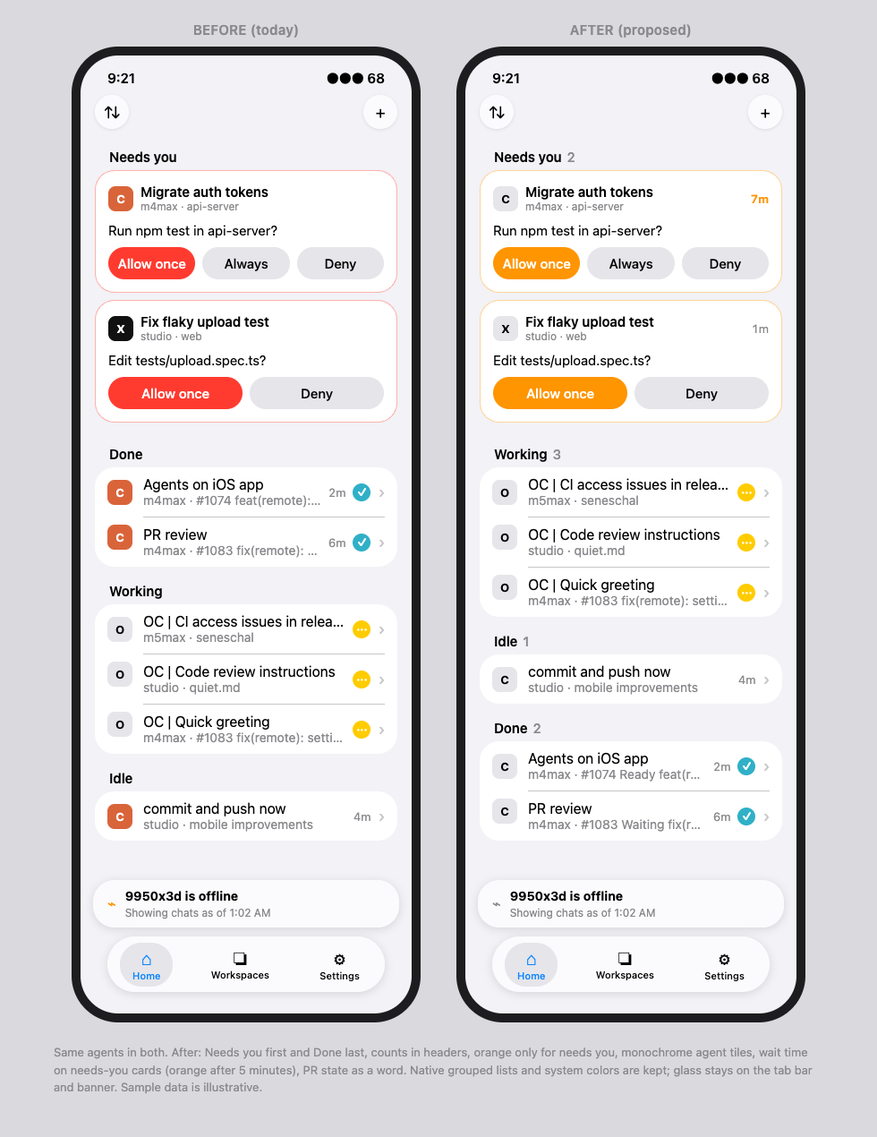
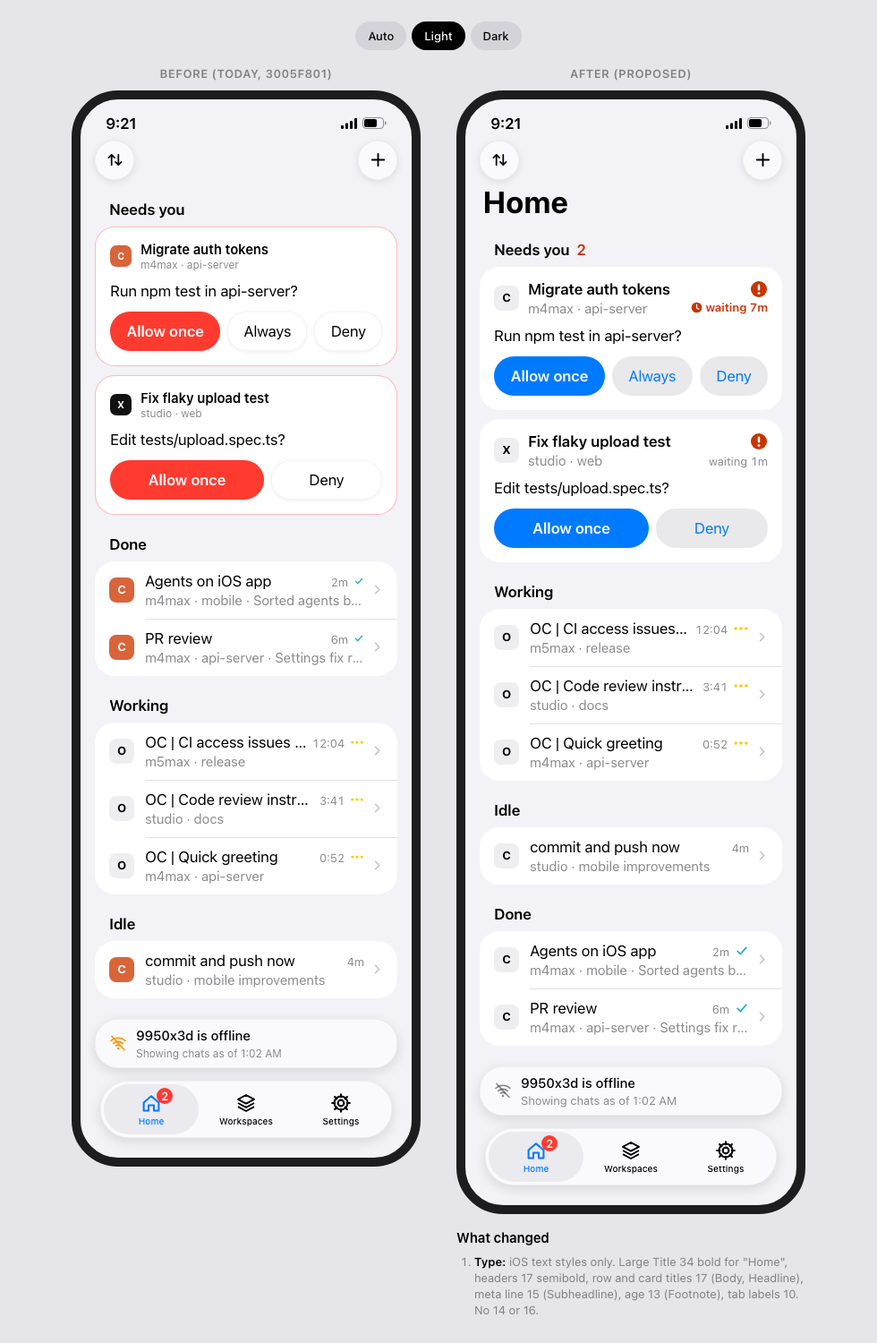
docs: align the ios home mock with the apple guidelines

Changed region(s): [[0.0612, 0.0, 0.9184, 0.9827], [0.1224, 0.6756, 0.3673, 0.737]]

diff --git a/design-proposal/ios-native-mock.html b/design-proposal/ios-native-mock.html
@@ -2,86 +2,239 @@
 <html lang="en"><head><meta charset="utf-8"><meta name="viewport" content="width=device-width,initial-scale=1">
 <title>iPhone Home mock</title>
 <style>
-:root{--bg:#f2f2f7;--card:#fff;--text:#000;--sec:#8a8a8e;--sep:#c6c6c8;--fill:#e5e5ea;--red:#ff3b30;--orange:#ff9500;--yellow:#ffcc00;--teal:#30b0c7;--glass:rgba(255,255,255,.72);--page:#d9d9de}
-@media (prefers-color-scheme:dark){:root{--bg:#000;--card:#1c1c1e;--text:#fff;--sec:#8d8d93;--sep:#38383a;--fill:#2c2c2e;--red:#ff453a;--orange:#ff9f0a;--yellow:#ffd60a;--teal:#40c8e0;--glass:rgba(40,40,42,.72);--page:#111}}
-*{box-sizing:border-box;margin:0}
-body{background:var(--page);font-family:-apple-system,BlinkMacSystemFont,"SF Pro Text","Helvetica Neue",Arial,sans-serif;color:var(--text);padding:24px 16px}
-.wrap{display:flex;gap:40px;justify-content:center;flex-wrap:wrap}
-h1{font-size:15px;font-weight:600;text-align:center;margin-bottom:10px;color:var(--sec);letter-spacing:.02em}
-.phone{width:390px;height:1090px;border-radius:52px;background:var(--bg);border:10px solid #1d1d1f;overflow:hidden;position:relative}
-.status{display:flex;justify-content:space-between;padding:16px 30px 0;font-size:15px;font-weight:600}
-.bar{display:flex;justify-content:space-between;padding:10px 16px 4px}
-.btn{width:38px;height:38px;border-radius:50%;background:var(--glass);backdrop-filter:blur(12px);display:grid;place-items:center;font-size:18px;box-shadow:0 1px 4px rgba(0,0,0,.12)}
-.list{padding:0 16px 200px}
-.hdr{font-size:15px;font-weight:600;padding:18px 16px 6px;display:flex;gap:6px}
-.hdr .n{color:var(--sec);font-weight:500}
-.group{background:var(--card);border-radius:22px;overflow:hidden}
-.row{display:flex;align-items:center;gap:12px;padding:10px 14px}
-.row+.row .body{border-top:.5px solid var(--sep)}
-.row+.row{padding-top:0}.row+.row .body{padding-top:10px}
-.tile{width:28px;height:28px;border-radius:8px;display:grid;place-items:center;font-size:13px;font-weight:700;flex:none}
-.body{flex:1;min-width:0;display:flex;align-items:center;gap:8px}
+/* System colors as iOS defines them. "--attn" is the proposed Attention Color Set:
+   systemOrange's increased-contrast value in light, systemOrange in dark. */
+:root{
+ --page:#e5e5ea;--grouped:#f2f2f7;--row:#fff;
+ --label:#000;--label2:rgba(60,60,67,.6);--label3:rgba(60,60,67,.3);--sep:rgba(60,60,67,.29);
+ --fill2:rgba(120,120,128,.16);--fill3:rgba(118,118,128,.12);
+ --blue:#007aff;--red:#ff3b30;--orange:#ff9500;--yellow:#ffcc00;--teal:#30b0c7;--attn:#c93400;
+ --glass:rgba(255,255,255,.62);--glass-edge:rgba(0,0,0,.08);--bezel:#1d1d1f;
+ --font:-apple-system,BlinkMacSystemFont,"SF Pro Text","SF Pro",system-ui,"Helvetica Neue",Arial,sans-serif;
+ color-scheme:light;
+}
+@media (prefers-color-scheme:dark){:root:not([data-theme="light"]){
+ --page:#111113;--grouped:#000;--row:#1c1c1e;
+ --label:#fff;--label2:rgba(235,235,245,.6);--label3:rgba(235,235,245,.3);--sep:rgba(84,84,88,.6);
+ --fill2:rgba(120,120,128,.32);--fill3:rgba(118,118,128,.24);
+ --blue:#0a84ff;--red:#ff453a;--orange:#ff9f0a;--yellow:#ffd60a;--teal:#40c8e0;--attn:#ff9f0a;
+ --glass:rgba(40,40,42,.62);--glass-edge:rgba(255,255,255,.1);--bezel:#3a3a3c;color-scheme:dark}}
+:root[data-theme="dark"]{
+ --page:#111113;--grouped:#000;--row:#1c1c1e;
+ --label:#fff;--label2:rgba(235,235,245,.6);--label3:rgba(235,235,245,.3);--sep:rgba(84,84,88,.6);
+ --fill2:rgba(120,120,128,.32);--fill3:rgba(118,118,128,.24);
+ --blue:#0a84ff;--red:#ff453a;--orange:#ff9f0a;--yellow:#ffd60a;--teal:#40c8e0;--attn:#ff9f0a;
+ --glass:rgba(40,40,42,.62);--glass-edge:rgba(255,255,255,.1);--bezel:#3a3a3c;color-scheme:dark}
+/* Increase Contrast: the system's high-contrast label and accent values. */
+@media (prefers-contrast:more){
+ :root{--label2:rgba(60,60,67,.76);--label3:rgba(60,60,67,.5);--sep:rgba(60,60,67,.45);--blue:#0040dd;--attn:#c93400;--glass-edge:rgba(0,0,0,.3)}
+ @media (prefers-color-scheme:dark){:root:not([data-theme="light"]){--label2:rgba(235,235,245,.76);--label3:rgba(235,235,245,.5);--sep:rgba(84,84,88,.9);--blue:#409cff;--attn:#ffb340;--glass-edge:rgba(255,255,255,.3)}}
+ :root[data-theme="dark"]{--label2:rgba(235,235,245,.76);--label3:rgba(235,235,245,.5);--sep:rgba(84,84,88,.9);--blue:#409cff;--attn:#ffb340;--glass-edge:rgba(255,255,255,.3)}
+}
+*{box-sizing:border-box;margin:0;padding:0}
+body{background:var(--page);font-family:var(--font);color:var(--label);padding:24px 16px 40px;-webkit-font-smoothing:antialiased}
+.top{display:flex;justify-content:center;gap:6px;margin-bottom:18px}
+.top button{font:500 13px/1 var(--font);color:var(--label);background:var(--fill2);border:0;border-radius:16px;padding:8px 14px;min-height:32px;cursor:pointer}
+.top button[aria-pressed="true"]{background:var(--label);color:var(--row)}
+.wrap{display:flex;gap:40px;justify-content:center;flex-wrap:wrap;align-items:flex-start}
+.col{width:390px;max-width:100%}
+.col>h1{font:600 13px/1.3 var(--font);text-align:center;margin-bottom:10px;color:var(--label2);letter-spacing:.04em;text-transform:uppercase}
+.phone{width:100%;border-radius:52px;background:var(--grouped);border:10px solid var(--bezel);overflow:hidden;position:relative;padding-bottom:178px}
+svg.i{display:inline-block;flex:none;vertical-align:middle}
+
+/* Status bar and navigation bar (functional layer: glass buttons) */
+.status{display:flex;justify-content:space-between;align-items:center;padding:16px 28px 0;font:600 17px/22px var(--font)}
+.status .r{display:flex;gap:6px;align-items:center}
+.nav{display:flex;justify-content:space-between;padding:8px 16px 0}
+.gbtn{width:44px;height:44px;border-radius:50%;background:var(--glass);backdrop-filter:blur(16px) saturate(180%);-webkit-backdrop-filter:blur(16px) saturate(180%);box-shadow:inset 0 0 0 .5px var(--glass-edge),0 2px 8px rgba(0,0,0,.1);display:grid;place-items:center;color:var(--label)}
+.large{font:700 34px/41px var(--font);letter-spacing:.01em;padding:4px 20px 0}
+
+/* List content: opaque grouped backgrounds only */
+.list{padding:0 16px}
+.hdr{display:flex;align-items:baseline;gap:8px;padding:22px 16px 8px;font:600 17px/22px var(--font);color:var(--label)}
+.hdr .n{color:var(--attn)}
+.group{background:var(--row);border-radius:22px;overflow:hidden}
+.row{display:flex;align-items:center;gap:12px;padding:0 0 0 16px;min-height:44px}
+.row .body{flex:1;min-width:0;display:flex;align-items:center;gap:8px;padding:11px 16px 11px 0}
+.row+.row .body{box-shadow:inset 0 .5px 0 var(--sep)}
+.tile{width:28px;height:28px;border-radius:8px;display:grid;place-items:center;font:700 13px/1 var(--font);flex:none}
 .tx{flex:1;min-width:0}
-.t{font-size:16px;white-space:nowrap;overflow:hidden;text-overflow:ellipsis}
-.d{font-size:14px;color:var(--sec);white-space:nowrap;overflow:hidden;text-overflow:ellipsis}
-.age{font-size:13px;color:var(--sec);font-variant-numeric:tabular-nums}
-.age.hot{color:var(--orange);font-weight:600}
-.chev{color:var(--sep);font-size:18px}
-.mk{width:20px;height:20px;border-radius:50%;display:grid;place-items:center;color:#fff;font-size:12px;font-weight:700;flex:none}
-.card{background:var(--card);border-radius:22px;padding:14px;margin-bottom:8px;border:1px solid}
-.card .top{display:flex;gap:8px;align-items:center}
-.card .q{font-size:15px;margin:10px 0}
+.l1{display:flex;align-items:baseline;gap:6px}
+.t{flex:1;min-width:0;font:400 17px/22px var(--font);white-space:nowrap;overflow:hidden;text-overflow:ellipsis}
+.d{font:400 15px/20px var(--font);color:var(--label2);white-space:nowrap;overflow:hidden;text-overflow:ellipsis}
+.age{font:400 13px/18px var(--font);color:var(--label2);font-variant-numeric:tabular-nums;white-space:nowrap;display:inline-flex;align-items:center;gap:3px}
+.age.hot{color:var(--attn);font-weight:600}
+.chev{color:var(--label3);display:grid;place-items:center}
+.mark{display:inline-grid;place-items:center;align-self:center}
+
+/* Answer cards */
+.cards{display:flex;flex-direction:column;gap:10px}
+.card{background:var(--row);border-radius:22px;padding:14px 16px 16px}
+.card .head{display:flex;gap:10px;align-items:center}
+.card .ct{font:600 17px/22px var(--font);white-space:nowrap;overflow:hidden;text-overflow:ellipsis;flex:1;min-width:0}
+.l2{display:flex;align-items:baseline;gap:6px}.l2 .d{flex:1;min-width:0}
+.card .q{font:400 17px/22px var(--font);margin:10px 0 12px}
 .opts{display:flex;gap:8px}
-.opt{flex:1;text-align:center;padding:9px 0;border-radius:20px;background:var(--fill);font-size:15px;font-weight:500}
-.opt.p{color:#fff}
-.toast{position:absolute;left:14px;right:14px;bottom:96px;background:var(--glass);backdrop-filter:blur(14px);border-radius:24px;padding:9px 16px;display:flex;gap:10px;align-items:center;box-shadow:0 2px 10px rgba(0,0,0,.12)}
-.toast b{font-size:14px;display:block}.toast span{font-size:12px;color:var(--sec)}
-.tabs{position:absolute;left:30px;right:30px;bottom:24px;height:62px;border-radius:31px;background:var(--glass);backdrop-filter:blur(14px);display:flex;justify-content:space-around;align-items:center;box-shadow:0 2px 10px rgba(0,0,0,.12);font-size:11px;font-weight:500}
-.tabs div{text-align:center;padding:6px 14px;border-radius:24px}.tabs .on{background:var(--fill);color:#0a84ff}
-.tabs i{display:block;font-style:normal;font-size:20px}
-.note{max-width:860px;margin:24px auto 0;font-size:13px;color:var(--sec);line-height:1.5}
+.opt{flex:1 1 auto;min-width:0;min-height:44px;display:grid;place-items:center;border-radius:22px;font:400 17px/22px var(--font);white-space:nowrap;padding:0 8px}
+/* before: the app's glass buttons */
+.before .card{border:1px solid color-mix(in srgb,var(--red) 35%,transparent)}
+.before .card .ct{font:600 15px/20px var(--font)}
+.before .card .d{font-size:12px;line-height:16px}
+.before .opt{background:var(--glass);box-shadow:inset 0 0 0 .5px var(--glass-edge),0 1px 4px rgba(0,0,0,.08)}
+.before .opt.p{background:var(--red);color:#fff;font-weight:600}
+/* after: system bordered and bordered-prominent, default accent */
+.after .opt{background:var(--fill2);color:var(--blue)}
+.after .opt.p{background:var(--blue);color:#fff;font-weight:600}
+
+/* Floating chrome: banner capsule above the tab bar, and the tab bar */
+.toast{position:absolute;left:16px;right:16px;bottom:100px;min-height:48px;background:var(--glass);backdrop-filter:blur(16px) saturate(180%);-webkit-backdrop-filter:blur(16px) saturate(180%);border-radius:26px;padding:8px 16px;display:flex;gap:10px;align-items:center;box-shadow:inset 0 0 0 .5px var(--glass-edge),0 4px 14px rgba(0,0,0,.12)}
+.toast b{font:500 15px/20px var(--font);display:block}
+.toast span{font:400 12px/16px var(--font);color:var(--label2)}
+.after .toast span{font-size:13px;line-height:18px}
+.tabs{position:absolute;left:22px;right:22px;bottom:22px;height:64px;border-radius:32px;background:var(--glass);backdrop-filter:blur(16px) saturate(180%);-webkit-backdrop-filter:blur(16px) saturate(180%);display:flex;justify-content:space-between;align-items:center;padding:4px;box-shadow:inset 0 0 0 .5px var(--glass-edge),0 4px 14px rgba(0,0,0,.12)}
+.tab{flex:1;height:56px;border-radius:28px;display:flex;flex-direction:column;align-items:center;justify-content:center;gap:2px;font:500 10px/12px var(--font);color:var(--label);position:relative}
+.tab.on{background:var(--fill3);color:var(--blue)}
+.badge{position:absolute;top:4px;left:calc(50% + 6px);min-width:18px;height:18px;border-radius:9px;background:var(--red);color:#fff;font:600 13px/18px var(--font);text-align:center;padding:0 5px}
+
+@media (prefers-reduced-transparency:reduce){.gbtn,.toast,.tabs,.before .opt{background:var(--row);backdrop-filter:none;-webkit-backdrop-filter:none}}
+
+/* State change demo */
+@keyframes enter{from{opacity:0;transform:translateY(-10px)}to{opacity:1;transform:none}}
+@keyframes fade{from{opacity:0}to{opacity:1}}
+.enter{animation:enter .32s cubic-bezier(.2,.9,.3,1.05)}
+@media (prefers-reduced-motion:reduce){.enter{animation:fade .2s ease-out}}
+
+/* Notes and legend */
+.legend{margin-top:16px;font:400 13px/18px var(--font);color:var(--label2)}
+.legend h2{font:600 15px/20px var(--font);color:var(--label);margin:0 0 8px}
+.legend ol{padding-left:20px;display:grid;gap:6px}
+.legend b{color:var(--label);font-weight:600}
+.key{display:flex;flex-wrap:wrap;gap:6px 14px;margin:10px 0 2px}
+.key span{display:inline-flex;align-items:center;gap:5px;color:var(--label)}
+.demo{margin-top:12px;font:600 15px/20px var(--font);color:#fff;background:var(--blue);border:0;border-radius:22px;min-height:44px;padding:0 18px;cursor:pointer}
+.note{max-width:860px;margin:28px auto 0;font:400 13px/1.5 var(--font);color:var(--label2)}
+@media (max-width:440px){.phone{border-width:6px;border-radius:40px}}
 </style></head><body>
-<div class="wrap">
- <div><h1>BEFORE (today)</h1><div class="phone" id="before"></div></div>
- <div><h1>AFTER (proposed)</h1><div class="phone" id="after"></div></div>
+<div class="top" role="group" aria-label="Appearance">
+ <button data-t="auto" aria-pressed="true">Auto</button><button data-t="light" aria-pressed="false">Light</button><button data-t="dark" aria-pressed="false">Dark</button>
 </div>
-<p class="note">Same agents in both. After: Needs you first and Done last, counts in headers, orange only for needs you, monochrome agent tiles, wait time on needs-you cards (orange after 5 minutes), PR state as a word. Native grouped lists and system colors are kept; glass stays on the tab bar and banner. Sample data is illustrative.</p>
+<div class="wrap">
+ <div class="col"><h1>Before (today, 3005f801)</h1><div class="phone before" id="before"></div></div>
+ <div class="col"><h1>After (proposed)</h1><div class="phone after" id="after"></div>
+  <div class="legend">
+   <h2>What changed</h2>
+   <ol>
+    <li><b>Type:</b> iOS text styles only. Large Title 34 bold for "Home", headers 17 semibold, row and card titles 17 (Body, Headline), meta line 15 (Subheadline), age 13 (Footnote), tab labels 10. No 14 or 16.</li>
+    <li><b>Order and count:</b> Needs you, Working, Idle, Done. Only "Needs you" has a count; it equals its rows and the system tab badge.</li>
+    <li><b>Orange appears three times only:</b> the waiting glyph, the age label after 5 minutes and the Needs you count. Card border, allow-once button and offline icon are no longer orange.</li>
+    <li><b>Age has a non-color cue:</b> it always says "waiting 1m"; after 5 minutes it adds a clock symbol and turns semibold.</li>
+    <li><b>Glyph shapes differ per state</b>, not only their color:</li>
+   </ol>
+   <div class="key" id="key"></div>
+   <ol start="6">
+    <li><b>Agent logos</b> are monochrome: label-color mark on a system fill (`.fill.secondary`).</li>
+    <li><b>Glass</b> only on the nav bar buttons, tab bar and the floating banner capsule, which is system-style chrome over the list, not a list row. Rows, headers, answer cards and their buttons are opaque. Under Reduce Transparency the chrome turns solid.</li>
+    <li><b>Targets</b> are at least 44 pt: nav buttons, rows, answer buttons, tabs.</li>
+    <li><b>Colors</b> are system label, fill and grouped background colors in light and dark, with Increase Contrast values. The attention color is a Color Set so 13 pt text passes 4.5:1 (5.3:1 light, 8.3:1 dark).</li>
+    <li><b>Motion:</b> when an agent starts needing you, its row fades and slides in once (cross-fade only under Reduce Motion) and one notification haptic fires on that frame. Nothing moves on refresh or on an age tick, and nothing pulses.</li>
+   </ol>
+   <button class="demo" id="demo" type="button">Simulate: an agent starts needing you</button>
+  </div>
+ </div>
+</div>
+<p class="note">Same agents in both phones. The before side follows the source at 3005f801: brand-colored tiles, red needs-you dot and card, yellow ellipsis and teal checkmark marks, running timers on working rows, no wait time on needs-you cards, glass answer buttons, the system badge on Home. Pull request state words belong to the Workspaces list, so they are not shown here. Sample data is illustrative.</p>
 <script>
-const A={claude:['#d9643a','#fff','C'],codex:['#111','#fff','X'],oc:['var(--fill)','var(--text)','O']};
-const chats=[
- {s:'need',a:'claude',t:'Migrate auth tokens',d:'m4max · api-server',q:'Run npm test in api-server?',w:'7m',opts:['Allow once','Always','Deny']},
- {s:'need',a:'codex',t:'Fix flaky upload test',d:'studio · web',q:'Edit tests/upload.spec.ts?',w:'1m',opts:['Allow once','Deny']},
- {s:'done',a:'claude',t:'Agents on iOS app',d:'m4max · #1074 feat(remote): sorted agents',age:'2m',pr:'Ready'},
- {s:'done',a:'claude',t:'PR review',d:'m4max · #1083 fix(remote): settings',age:'6m',pr:'Waiting'},
- {s:'work',a:'oc',t:'OC | CI access issues in release',d:'m5max · seneschal'},
- {s:'work',a:'oc',t:'OC | Code review instructions',d:'studio · quiet.md'},
- {s:'work',a:'oc',t:'OC | Quick greeting',d:'m4max · #1083 fix(remote): settings'},
- {s:'idle',a:'claude',t:'commit and push now',d:'studio · mobile improvements',age:'4m'},
+const P={
+ bang:'<circle cx="10" cy="10" r="9" fill="currentColor"/><rect x="8.75" y="4.6" width="2.5" height="7" rx="1.25" fill="var(--row)"/><circle cx="10" cy="14.6" r="1.45" fill="var(--row)"/>',
+ dots:'<circle cx="3.5" cy="10" r="2" fill="currentColor"/><circle cx="10" cy="10" r="2" fill="currentColor"/><circle cx="16.5" cy="10" r="2" fill="currentColor"/>',
+ check:'<path d="M4 10.5l4 4 8-9" fill="none" stroke="currentColor" stroke-width="2.4" stroke-linecap="round" stroke-linejoin="round"/>',
+ oct:'<path d="M6.3 1.5h7.4l4.8 4.8v7.4l-4.8 4.8H6.3l-4.8-4.8V6.3z" fill="currentColor"/><path d="M7 7l6 6M13 7l-6 6" stroke="var(--row)" stroke-width="2.2" stroke-linecap="round"/>',
+ clock:'<circle cx="10" cy="10" r="9" fill="currentColor"/><path d="M10 5v5.5l3.5 2" fill="none" stroke="var(--row)" stroke-width="2" stroke-linecap="round" stroke-linejoin="round"/>',
+ chev:'<path d="M7 3.5l6.5 6.5L7 16.5" fill="none" stroke="currentColor" stroke-width="2.4" stroke-linecap="round" stroke-linejoin="round"/>',
+ sort:'<path d="M6 16V4M2.5 7.5L6 4l3.5 3.5M14 4v12M10.5 12.5L14 16l3.5-3.5" fill="none" stroke="currentColor" stroke-width="1.8" stroke-linecap="round" stroke-linejoin="round"/>',
+ plus:'<path d="M10 3v14M3 10h14" stroke="currentColor" stroke-width="2" stroke-linecap="round"/>',
+ house:'<path d="M3 9.5L10 3.5l7 6V17h-4.5v-5h-5v5H3z" fill="none" stroke="currentColor" stroke-width="1.7" stroke-linejoin="round"/>',
+ stack:'<path d="M10 2.5l7.5 4-7.5 4-7.5-4z" fill="none" stroke="currentColor" stroke-width="1.6" stroke-linejoin="round"/><path d="M2.5 10l7.5 4 7.5-4M2.5 13.5l7.5 4 7.5-4" fill="none" stroke="currentColor" stroke-width="1.6" stroke-linejoin="round"/>',
+ gear:'<circle cx="10" cy="10" r="2.8" fill="none" stroke="currentColor" stroke-width="1.7"/><path d="M10 1.8v2.6M10 15.6v2.6M1.8 10h2.6M15.6 10h2.6M4.2 4.2l1.9 1.9M13.9 13.9l1.9 1.9M4.2 15.8l1.9-1.9M13.9 6.1l1.9-1.9" stroke="currentColor" stroke-width="1.7" stroke-linecap="round"/><circle cx="10" cy="10" r="6.2" fill="none" stroke="currentColor" stroke-width="1.7"/>',
+ wifix:'<path d="M2 7.5a11.5 11.5 0 0 1 16 0M4.8 10.4a7.5 7.5 0 0 1 10.4 0M7.6 13.2a3.5 3.5 0 0 1 4.8 0" fill="none" stroke="currentColor" stroke-width="1.7" stroke-linecap="round"/><circle cx="10" cy="16" r="1.3" fill="currentColor"/><path d="M3 2.5l14 15" stroke="currentColor" stroke-width="1.7" stroke-linecap="round"/>'
+};
+const ic=(k,s=20,c='currentColor',label)=>`<svg class="i" width="${s}" height="${s}" viewBox="0 0 20 20" style="color:${c}" ${label?`role="img" aria-label="${label}"`:'aria-hidden="true"'}>${P[k]}</svg>`;
+const A={claude:['#d9643a','#fff','C'],codex:['#111','#fff','X'],oc:['var(--fill3)','var(--label)','O']};
+const base=[
+ {id:1,s:'need',a:'claude',t:'Migrate auth tokens',d:'m4max · api-server',q:'Run npm test in api-server?',w:7,opts:['Allow once','Always','Deny']},
+ {id:2,s:'need',a:'codex',t:'Fix flaky upload test',d:'studio · web',q:'Edit tests/upload.spec.ts?',w:1,opts:['Allow once','Deny']},
+ {id:3,s:'done',a:'claude',t:'Agents on iOS app',d:'m4max · mobile · Sorted agents by status',age:'2m'},
+ {id:4,s:'done',a:'claude',t:'PR review',d:'m4max · api-server · Settings fix reviewed',age:'6m'},
+ {id:5,s:'work',a:'oc',t:'OC | CI access issues in release',d:'m5max · release',timer:'12:04'},
+ {id:6,s:'work',a:'oc',t:'OC | Code review instructions',d:'studio · docs',timer:'3:41'},
+ {id:7,s:'work',a:'oc',t:'OC | Quick greeting',d:'m4max · api-server',timer:'0:52'},
+ {id:8,s:'idle',a:'claude',t:'commit and push now',d:'studio · mobile improvements',age:'4m'},
 ];
-function tile(a,mono){const [bg,fg,l]=A[a];return mono?`<div class="tile" style="background:var(--fill);color:var(--text)">${l}</div>`:`<div class="tile" style="background:${bg};color:${fg}">${l}</div>`}
-function mark(s,after){
- if(s==='work')return `<div class="mk" style="background:var(--yellow)">···</div>`;
- if(s==='done')return `<div class="mk" style="background:var(--teal)">✓</div>`;
+let moved=false,flash=null;
+const stateLabel={need:'Needs you',work:'Working',done:'Done',idle:'Idle',fail:'Failed'};
+function tile(a,after){const [bg,fg,l]=A[a];return after?`<div class="tile" style="background:var(--fill3);color:var(--label)" aria-hidden="true">${l}</div>`:`<div class="tile" style="background:${bg};color:${fg}" aria-hidden="true">${l}</div>`}
+/* Before: StatusMark in ChatRowLabel. After: one glyph per state, distinct silhouettes. */
+function mark(c,after){
+ if(!after){
+  if(c.s==='need')return `<span class="mark" role="img" aria-label="Needs you"><span style="width:9px;height:9px;border-radius:50%;background:var(--red);display:block"></span></span>`;
+  if(c.s==='work')return `<span class="mark">${ic('dots',16,'var(--yellow)','Working')}</span>`;
+  if(c.s==='done')return `<span class="mark">${ic('check',12,'var(--teal)','Done')}</span>`;
+  return '';}
+ if(c.s==='need')return `<span class="mark">${ic('bang',20,'var(--attn)',`Waiting for you, ${c.w||0} minutes`)}</span>`;
+ if(c.s==='work')return `<span class="mark">${ic('dots',18,'var(--yellow)','Working')}</span>`;
+ if(c.s==='done')return `<span class="mark">${ic('check',16,'var(--teal)','Done')}</span>`;
+ if(c.s==='fail')return `<span class="mark">${ic('oct',20,'var(--red)','Failed')}</span>`;
  return '';}
+function age(c,after){
+ if(c.s==='need'){
+  if(!after)return '';
+  const hot=c.w>=5, txt=c.w<1?'waiting now':`waiting ${c.w}m`;
+  return `<span class="age${hot?' hot':''}">${hot?ic('clock',13,'var(--attn)'):''}${txt}</span>`;}
+ if(c.timer)return `<span class="age">${c.timer}</span>`;
+ return c.age?`<span class="age">${c.age}</span>`:'';}
 function row(c,after){
- let d=c.d;
- if(after&&c.pr)d=d.replace(/#(\d+)/,`#$1 ${c.pr}`);
- return `<div class="row">${tile(c.a,after)}<div class="body"><div class="tx"><div class="t">${c.t}</div><div class="d">${d}</div></div>${c.age?`<span class="age">${c.age}</span>`:''}${mark(c.s,after)}<span class="chev">›</span></div></div>`}
+ const cls=flash===c.id&&after?' enter':'';
+ return `<div class="row${cls}">${tile(c.a,after)}<div class="body"><div class="tx"><div class="l1"><span class="t">${c.t}</span>${age(c,after)}${mark(c,after)}</div><div class="d">${c.d}</div></div><span class="chev">${ic('chev',13)}</span></div></div>`}
 function card(c,after){
- const col=after?'var(--orange)':'var(--red)';
- const hot=after&&parseInt(c.w)>=5;
- return `<div class="card" style="border-color:color-mix(in srgb,${col} 40%,transparent)"><div class="top">${tile(c.a,after)}<div class="tx"><div class="t" style="font-size:15px;font-weight:600">${c.t}</div><div class="d" style="font-size:12px">${c.d}</div></div>${after?`<span class="age ${hot?'hot':''}">${c.w}</span>`:''}</div><div class="q">${c.q}</div><div class="opts">${c.opts.map(o=>`<div class="opt ${o==='Allow once'?'p':''}" style="${o==='Allow once'?'background:'+col:''}">${o}</div>`).join('')}</div></div>`}
-function sec(title,items,after,cards){
+ const head=after
+  ?`<div class="head">${tile(c.a,true)}<div class="tx"><div class="l1"><span class="ct">${c.t}</span>${mark(c,true)}</div><div class="l2"><span class="d">${c.d}</span>${age(c,true)}</div></div></div>`
+  :`<div class="head">${A[c.a]?`<div class="tile" style="width:24px;height:24px;border-radius:7px;font-size:11px;background:${A[c.a][0]};color:${A[c.a][1]}">${A[c.a][2]}</div>`:''}<div class="tx"><div class="ct">${c.t}</div><div class="d">${c.d}</div></div></div>`;
+ return `<div class="card">${head}<div class="q">${c.q}</div><div class="opts">${c.opts.map(o=>`<div class="opt${o==='Allow once'?' p':''}" role="button">${o}</div>`).join('')}</div></div>`}
+function sec(title,items,after){
  if(!items.length)return '';
- const h=`<div class="hdr">${title}${after?`<span class="n">${items.length}</span>`:''}</div>`;
- return h+(cards?items.map(c=>card(c,after)).join(''):`<div class="group">${items.map(c=>row(c,after)).join('')}</div>`)}
+ const count=after&&title==='Needs you'?`<span class="n" aria-label="${items.length} agents">${items.length}</span>`:'';
+ const cards=items.filter(c=>c.q), rows=items.filter(c=>!c.q);
+ return `<div class="hdr">${title}${count}</div>`
+  +(cards.length?`<div class="cards">${cards.map(c=>card(c,after)).join('')}</div>`:'')
+  +(rows.length?`<div class="group"${cards.length?' style="margin-top:10px"':''}>${rows.map(c=>row(c,after)).join('')}</div>`:'');}
+function data(after){
+ return base.map(c=>after&&moved&&c.id===7?{...c,s:'need',w:0,timer:null}:c);}
 function phone(after){
- const by=s=>chats.filter(c=>c.s===s);
+ const chats=data(after), by=s=>chats.filter(c=>c.s===s);
  const order=after?[['Needs you','need'],['Working','work'],['Idle','idle'],['Done','done']]:[['Needs you','need'],['Done','done'],['Working','work'],['Idle','idle']];
- return `<div class="status"><span>9:21</span><span>●●● 68</span></div><div class="bar"><div class="btn">⇅</div><div class="btn">+</div></div><div class="list">${order.map(([t,s])=>sec(t,by(s),after,s==='need')).join('')}</div>
- <div class="toast"><span style="color:${after?'var(--sec)':'var(--orange)'};font-size:16px">⌁</span><div><b>9950x3d is offline</b><span>Showing chats as of 1:02 AM</span></div></div>
- <div class="tabs"><div class="on"><i>⌂</i>Home</div><div><i>❏</i>Workspaces</div><div><i>⚙</i>Settings</div></div>`}
-document.getElementById('before').innerHTML=phone(false);
-document.getElementById('after').innerHTML=phone(true);
+ const waiting=by('need').length;
+ return `<div class="status"><span>9:21</span><span class="r"><svg width="18" height="12" viewBox="0 0 18 12" aria-hidden="true"><rect x="0" y="8" width="3" height="4" rx="1" fill="currentColor"/><rect x="5" y="5.5" width="3" height="6.5" rx="1" fill="currentColor"/><rect x="10" y="3" width="3" height="9" rx="1" fill="currentColor"/><rect x="15" y="0" width="3" height="12" rx="1" fill="currentColor"/></svg><svg width="27" height="13" viewBox="0 0 27 13" aria-hidden="true"><rect x=".5" y=".5" width="23" height="12" rx="3.5" fill="none" stroke="currentColor" opacity=".4"/><rect x="2" y="2" width="14" height="9" rx="2" fill="currentColor"/><rect x="25" y="4.5" width="1.5" height="4" rx=".7" fill="currentColor" opacity=".4"/></svg></span></div>
+ <div class="nav"><div class="gbtn" role="button" aria-label="Sort agents">${ic('sort',19)}</div><div class="gbtn" role="button" aria-label="New Workspace">${ic('plus',19)}</div></div>
+ ${after?'<div class="large" role="heading" aria-level="1">Home</div>':''}
+ <div class="list">${order.map(([t,s])=>sec(t,by(s),after)).join('')}</div>
+ <div class="toast" role="status">${ic('wifix',20,after?'var(--label2)':'var(--orange)')}<div><b>9950x3d is offline</b><span>Showing chats as of 1:02 AM</span></div></div>
+ <div class="tabs" role="tablist"><div class="tab on" role="tab" aria-selected="true">${ic('house',24)}Home<span class="badge" aria-label="${waiting} waiting">${waiting}</span></div><div class="tab" role="tab">${ic('stack',24)}Workspaces</div><div class="tab" role="tab">${ic('gear',24)}Settings</div></div>`}
+function render(){
+ document.getElementById('before').innerHTML=phone(false);
+ document.getElementById('after').innerHTML=phone(true);}
+document.getElementById('key').innerHTML=[['need','bang','var(--attn)'],['work','dots','var(--yellow)'],['done','check','var(--teal)'],['fail','oct','var(--red)']].map(([s,k,c])=>`<span>${ic(k,18,c)}${stateLabel[s]}</span>`).join('')+'<span style="color:var(--label2)">Idle: no glyph</span>';
+document.getElementById('demo').addEventListener('click',e=>{
+ moved=!moved; flash=moved?7:null; render(); flash=null;
+ e.currentTarget.textContent=moved?'Reset the demo':'Simulate: an agent starts needing you';});
+function theme(t){
+ if(t==='auto')document.documentElement.removeAttribute('data-theme');else document.documentElement.setAttribute('data-theme',t);
+ document.querySelectorAll('.top button').forEach(b=>b.setAttribute('aria-pressed',String(b.dataset.t===t)));
+ try{localStorage.setItem('mock-theme',t)}catch(_){}}
+document.querySelectorAll('.top button').forEach(b=>b.addEventListener('click',()=>theme(b.dataset.t)));
+let start='auto';
+const qp=new URLSearchParams(location.search).get('theme');
+if(qp)start=qp;else{try{start=localStorage.getItem('mock-theme')||'auto'}catch(_){}}
+theme(start);
+render();
 </script>
 </body></html>

diff --git a/design-proposal/ios-native-spec.md b/design-proposal/ios-native-spec.md
@@ -6,20 +6,23 @@ Keeps the current native iOS 26 look. Line references are from 3005f801.
 
 | State | Color | SF Symbol | Word |
 |---|---|---|---|
-| Needs you | `.orange` | `exclamationmark.circle.fill` | Needs you |
-| Working | `.yellow` | `ellipsis.circle.fill` | Working |
-| Done | `.teal` | `checkmark.circle.fill` | Done |
-| Failed | `.red` | `xmark.circle.fill` | Failed |
+| Needs you | `Attention` Color Set | `exclamationmark.circle.fill` | Needs you |
+| Working | `.yellow` | `ellipsis` | Working |
+| Done | `.teal` | `checkmark` | Done |
+| Failed | `.red` | `xmark.octagon.fill` | Failed |
 | Idle | none | none | Idle |
 
-Orange is used only for "needs you". Used by the app (`Views/Parts.swift`), widgets (`SheprdRemoteWidgets/Parts.swift`) and the Watch.
+Each state has its own symbol silhouette (filled disc, dots, check, octagon), so the states differ in grayscale too. `Attention` is systemOrange with its increased-contrast value (#C93400) in light and systemOrange in dark, so 13 pt text passes 4.5:1 (5.3:1 light, 8.3:1 dark). Orange is used only for "needs you": the waiting glyph, the wait time after 5 minutes and the Needs you count. Used by the app (`Views/Parts.swift`), widgets (`SheprdRemoteWidgets/Parts.swift`) and the Watch.
 
 ## Home
 
+- Large title "Home" (`.navigationTitle("Home")`, `.large`; today it is inline with no title, `HomeTab.swift:15`).
 - Priority sort: Needs you, Working, Idle, Done (`AgentSort.swift:50`).
 - Needs you on top in every sort; hidden when empty.
-- Headers show counts ("Working 3"); VoiceOver reads "Working, 3 agents".
-- Needs-you cards and rows show the wait time; after 5 minutes it uses `.orange` and semibold. Needs `waiting_since` from the daemon.
+- Only the Needs you header has a count ("Needs you 2"), in the attention color; VoiceOver reads "Needs you, 2 agents". It equals the rows in that section and the system tab badge (`.badge(model.fleet.waiting)`). Other headers have no count.
+- Needs-you cards and rows show the wait time as "waiting 2m" (Footnote). After 5 minutes it adds `clock.fill`, turns semibold and uses the attention color. Needs `waiting_since` from the daemon.
+- `AnswerCard` drops the tinted border; its buttons become `.bordered` with allow-once `.borderedProminent` in the default accent, at least 44 pt tall.
+- Text styles only: Body for row titles, Headline for card titles, Subheadline for the meta line, Footnote for ages.
 
 ## Agent logos
 
@@ -31,4 +34,8 @@ Every tile is `.fill.secondary` with a `.primary` template mark, as opencode, am
 
 ## Liquid Glass
 
-Only where the app uses it now: tab bar, offline and nearby banners, composer. Rows and answer cards stay solid.
+Only on the functional layer: nav bar buttons, tab bar, offline and nearby banners (floating capsules over the list), composer. Rows, headers, answer cards and their buttons are opaque; with Reduce Transparency the chrome is solid.
+
+## Motion
+
+When an agent starts needing you, its row moves in once with a short spring (a cross-fade under Reduce Motion) and one notification haptic fires on that frame. Nothing animates or buzzes on refresh or an age tick; the waiting glyph does not pulse.
